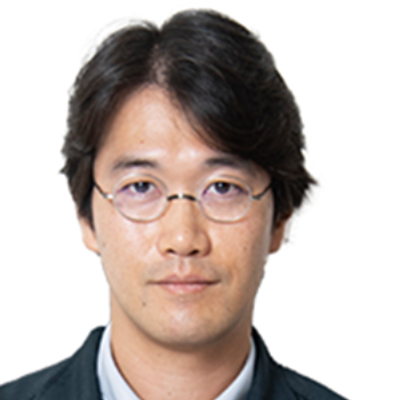
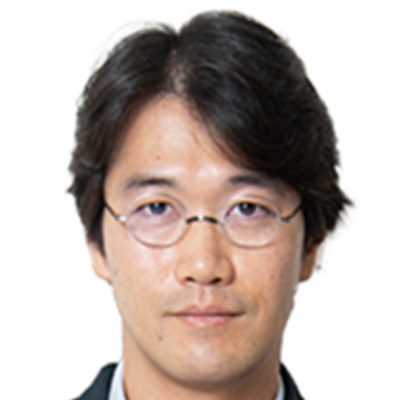
hasegawa: zoom-in slightly (0.82→0.90) + shift right via transform-origin 68%; suzuki: trim right 40px (mild right shift)

diff --git a/css/style.css b/css/style.css
@@ -3745,10 +3745,10 @@ footer .footer-akatsuki-link a:hover {
 .pm-photo img {
   object-position: center top;
 }
-/* 長谷川: 顔を縮小表示（コンテナ内で画像を小さく＝顔が小さく見える） */
+/* 長谷川: 顔を少し縮小しつつ、ややズーム＆右寄せ */
 .pm-card[data-pm="hasegawa"] .pm-photo img,
 .pm-modal-photo[data-pm="hasegawa"] img {
-  transform: scale(0.82);
-  transform-origin: center 28%;
+  transform: scale(0.90);
+  transform-origin: 68% 28%;
   object-position: center 28%;
 }